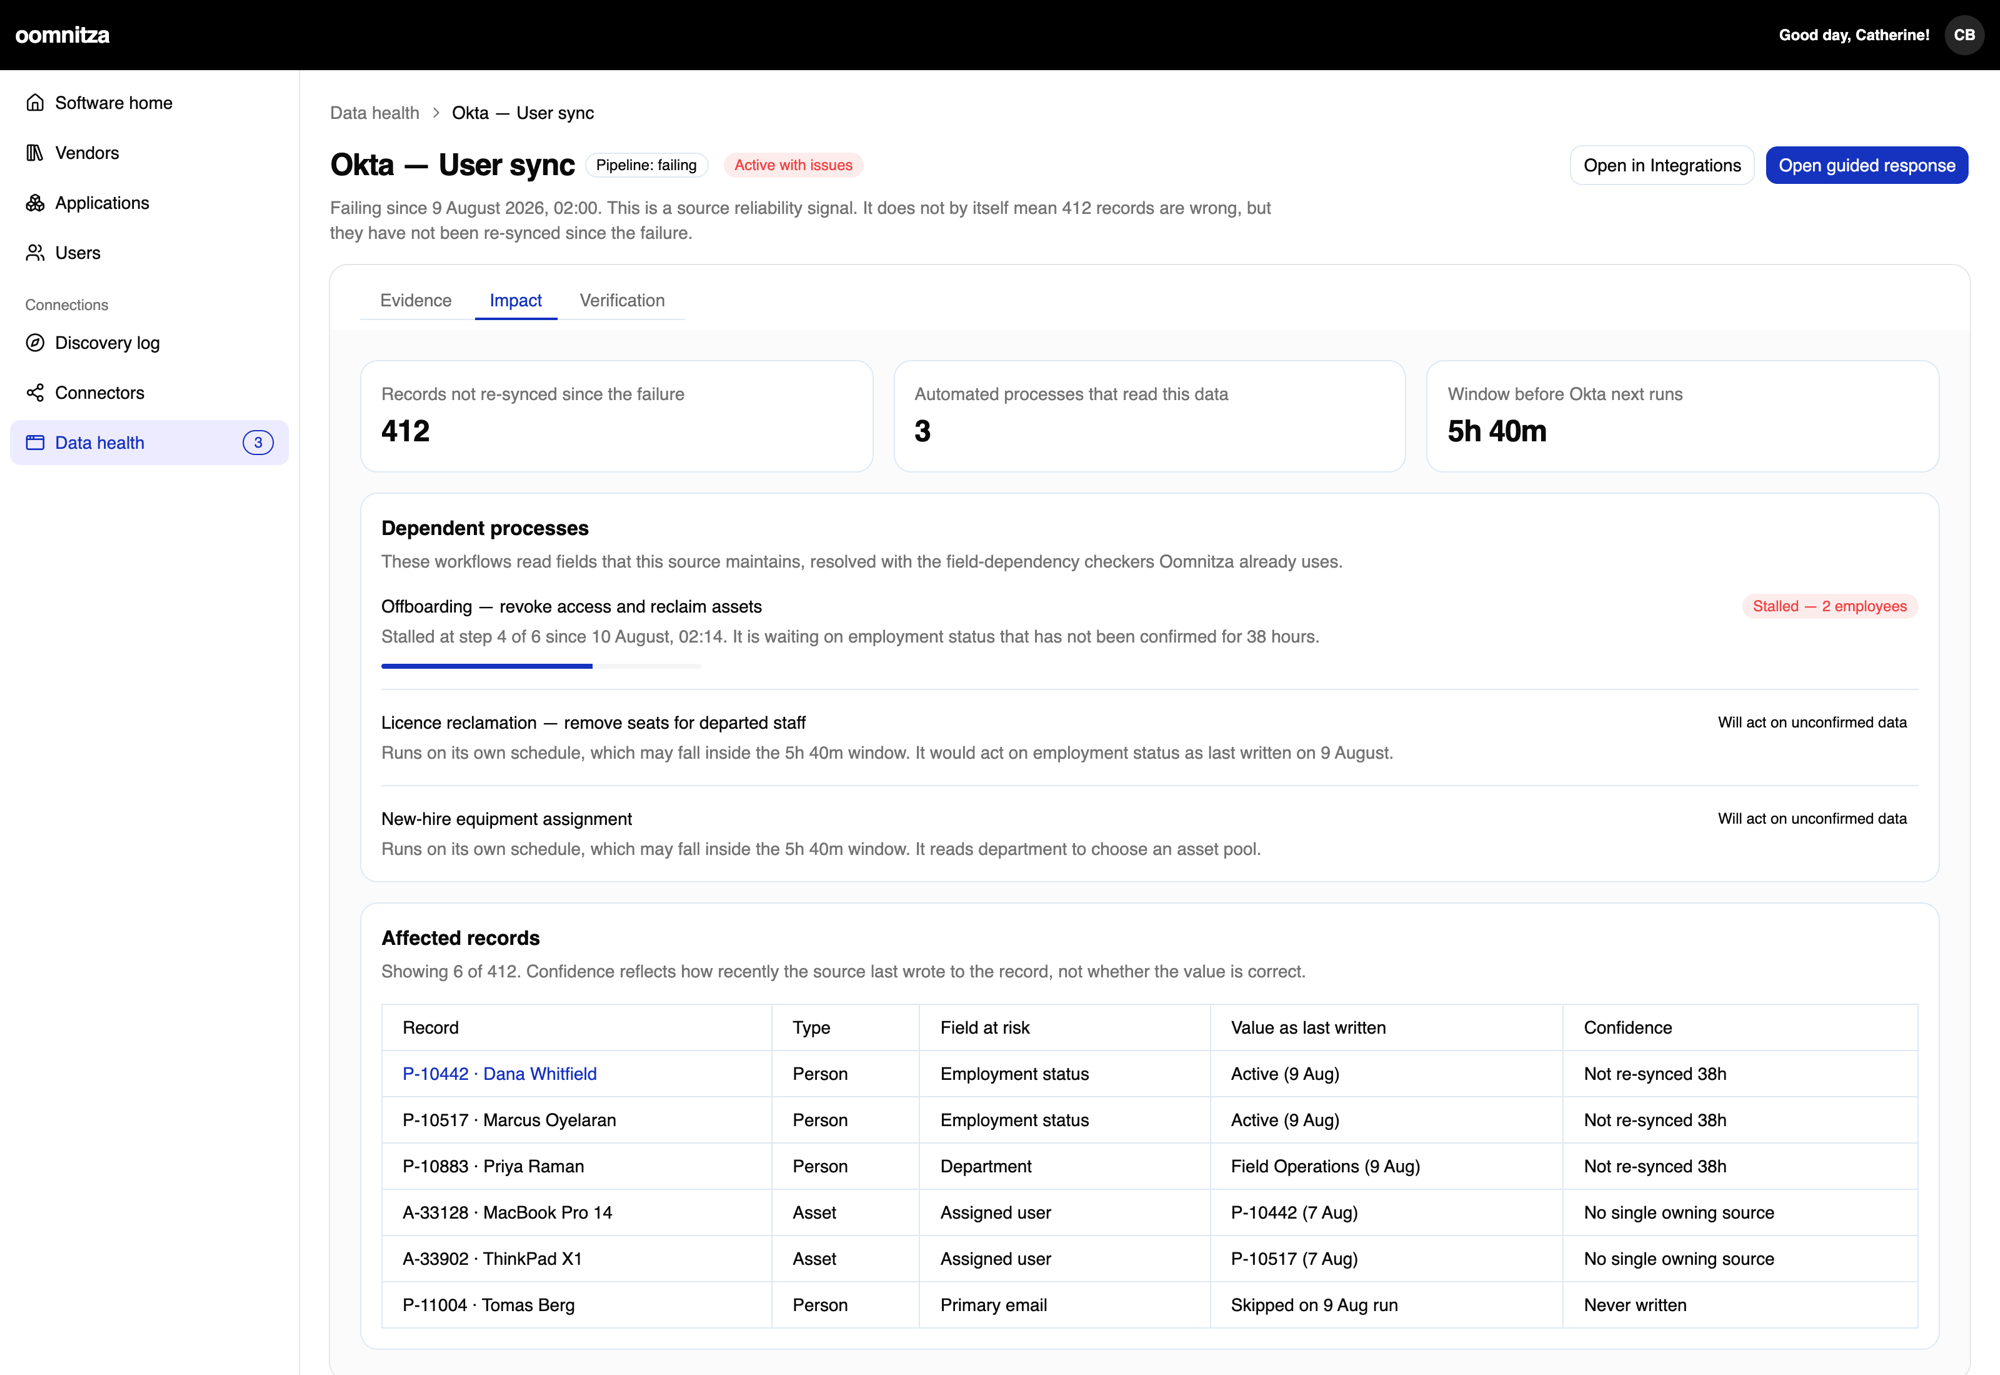
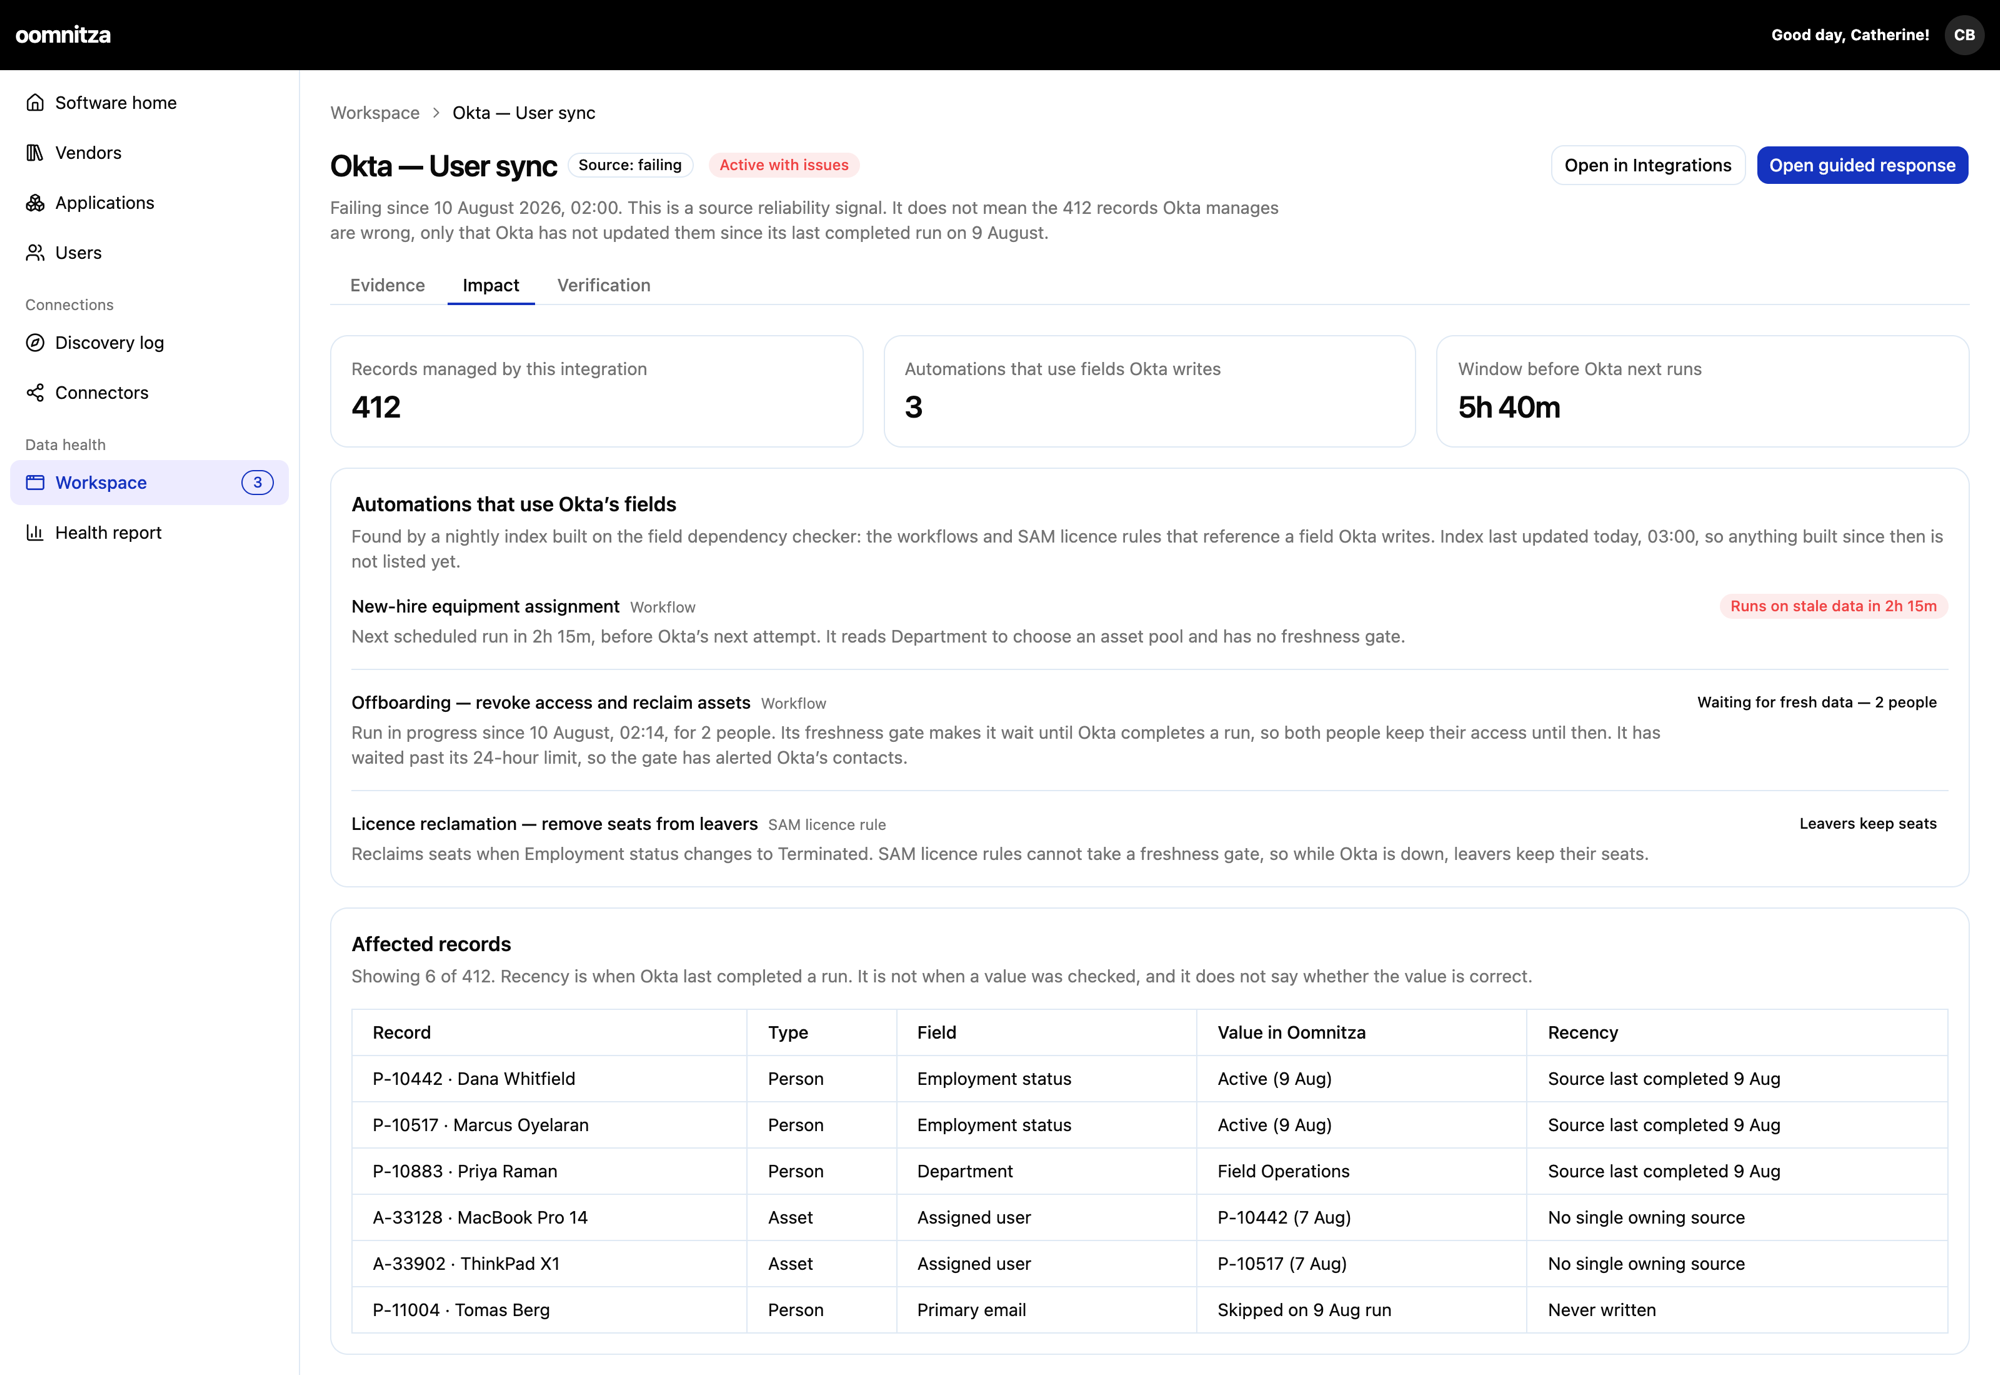
Refresh the Data Health screens to the current Workspace
The overview is now the Workspace, and the Okta impact tab reflects the
feasibility review: automations say whether they run on stale data,
wait behind a freshness gate, or leave leavers' seats in place. The
labels on both screens, the notes, the hero caption and the homepage
collage's banner crop are re-measured against the new layout.

diff --git a/portfolio/index.html b/portfolio/index.html
@@ -865,13 +865,13 @@ section[id]{scroll-margin-top:72px}
 .cl-base img{width:100%;height:auto}
 .cl-rec{right:4%;bottom:7%;width:52%;aspect-ratio:896/405;--d:14px}
 .cl-rec img{width:223.21%;height:auto;margin-left:-114.06%;margin-top:-38.5%}
-.cl-risk{left:2.5%;top:46%;width:54%;aspect-ratio:750/128;--d:20px;border-radius:6px}
-.cl-risk img{width:266.67%;height:auto;margin-left:-45.33%;margin-top:-57.07%}
+.cl-risk{left:2.5%;top:38%;width:54%;aspect-ratio:730/126;--d:20px;border-radius:6px}
+.cl-risk img{width:273.97%;height:auto;margin-left:-46.58%;margin-top:-33.97%}
 .cl-cut{
-  position:absolute; left:17.58%; top:30.27%; width:62.24%; height:7.74%; border:1.5px dashed var(--signal); border-radius:4px;
+  position:absolute; left:17.54%; top:20.27%; width:62.32%; height:7.88%; border:1.5px dashed var(--signal); border-radius:4px;
   transform:translate(calc(var(--px,0) * 6px + var(--hx,0px)),calc(var(--py,0) * 6px + var(--hy,0px))); transition:transform .8s var(--ease);
 }
-.cl-lead{position:absolute;left:20%;top:38%;height:8%;border-left:1.5px dashed var(--signal)}
+.cl-lead{position:absolute;left:20%;top:28.15%;height:9.85%;border-left:1.5px dashed var(--signal)}
 .case:hover .cl-base,.case:hover .cl-cut{--hx:-6px;--hy:-6px}
 .case:hover .cl-rec{--hx:9px;--hy:9px}
 .case:hover .cl-risk{--hx:-5px;--hy:5px;--hs:1.035}
@@ -1287,14 +1287,14 @@ section[id]{scroll-margin-top:72px}
         <div class="case-foot"><span class="read mono">Read the case study <span class="arr" aria-hidden="true">→</span></span></div>
       </div>
       <figure class="sheet">
-        <div class="stack collage" role="img" aria-label="Data Health prototype screens: the overview with its risk banner pulled out and magnified, and Dana Whitfield's record showing unconfirmed fields.">
+        <div class="stack collage" role="img" aria-label="Data Health prototype screens: the workspace with its risk banner pulled out and magnified, and Dana Whitfield's record showing unconfirmed fields.">
           <div class="cl cl-base"><img src="img/dh-overview.png" alt="" width="2000" height="1375" loading="lazy" decoding="async"></div>
           <span class="cl-cut" aria-hidden="true"></span>
           <span class="cl-lead" aria-hidden="true"></span>
           <div class="cl cl-rec"><img src="img/dh-record.jpg" alt="" width="2000" height="1250" loading="lazy" decoding="async"></div>
           <div class="cl cl-risk"><img src="img/dh-overview.png" alt="" width="2000" height="1375" loading="lazy" decoding="async"></div>
         </div>
-        <figcaption class="titleblock"><span>Fig. 04</span><span class="tb-title">Overview, risk banner and field status</span><span>Real screens</span></figcaption>
+        <figcaption class="titleblock"><span>Fig. 04</span><span class="tb-title">Workspace, risk banner and field status</span><span>Real screens</span></figcaption>
       </figure>
     </article>
 
@@ -1741,8 +1741,8 @@ section[id]{scroll-margin-top:72px}
 
   <div class="wrap">
     <figure class="sheet tilt-fig" style="margin:0">
-      <div class="tilt-stage"><div class="tilt"><img src="img/dh-overview.png" alt="Data Health overview in the prototype: four headline cards, a red banner warning that 3 automated processes will act on unconfirmed data in 5h 40m, and a table of signals." width="2000" height="1375" decoding="async"></div></div>
-      <figcaption class="titleblock"><span>Fig. A</span><span class="tb-title">Data Health overview — interactive prototype</span><span>Real screens</span></figcaption>
+      <div class="tilt-stage"><div class="tilt"><img src="img/dh-overview.png" alt="The Data Health workspace in the prototype: a red banner warning that new-hire equipment assignment runs on stale Okta data in 2h 15m, four headline cards, and signals ranked by risk to automations." width="2000" height="1375" decoding="async"></div></div>
+      <figcaption class="titleblock"><span>Fig. A</span><span class="tb-title">Data Health workspace — interactive prototype</span><span>Real screens</span></figcaption>
     </figure>
   </div>
 
@@ -1857,19 +1857,19 @@ section[id]{scroll-margin-top:72px}
         <p>I built the first screens with a Claude skill grounded in Oomnitza’s design system — real components, exact tokens and page patterns (the <a class="tlink" href="#designsystem">design system case study <span class="arr" aria-hidden="true">→</span></a> covers how). Each proposed step maps to a place in the product.</p>
         <div class="seg" role="tablist" aria-label="Prototype screen">
           <span class="seg-ind" aria-hidden="true"></span>
-          <button type="button" role="tab" id="tab-dh-ov" aria-controls="view-dh-ov" aria-selected="true" data-role="dh-ov">Overview</button>
+          <button type="button" role="tab" id="tab-dh-ov" aria-controls="view-dh-ov" aria-selected="true" data-role="dh-ov">Workspace</button>
           <button type="button" role="tab" id="tab-dh-im" aria-controls="view-dh-im" aria-selected="false" tabindex="-1" data-role="dh-im">Impact</button>
         </div>
         <figure class="sheet">
           <div class="shot crop-16x9 views" data-zoom>
-            <div class="view on" id="view-dh-ov" role="tabpanel" aria-labelledby="tab-dh-ov"><img src="img/dh-overview.png" alt="Overview: dependent actions at risk, sources with issues, records not synced, quality checks, a risk banner and the signals table." width="2000" height="1375" loading="lazy" decoding="async"><span class="hl" style="--k:0;left:16.5%;top:19.56%;width:19.8%;height:16%"><span class="lbl ">Consequence first: the smallest number leads</span></span><span class="hl" style="--k:1;left:16.56%;top:37.44%;width:81.9%;height:12.44%"><span class="lbl ">What’s about to happen, not what broke</span></span><span class="hl" style="--k:2;left:88%;top:59.1%;width:10.4%;height:27.56%"><span class="lbl end">Risk as time, or as uncertainty</span></span></div>
-            <div class="view" id="view-dh-im" role="tabpanel" aria-labelledby="tab-dh-im"><img src="img/dh-impact.png" alt="Okta — User sync impact tab: 412 records not re-synced, 3 automated processes, 5h 40m window, dependent processes and affected records." width="2000" height="1375" loading="lazy" decoding="async"><span class="hl" style="--k:0;left:18%;top:25.33%;width:16.25%;height:3.11%"><span class="lbl ">Evidence · Impact · Verification</span></span><span class="hl" style="--k:1;left:88.3%;top:13.06%;width:10.1%;height:3.22%"><span class="lbl end">Choose a response</span></span><span class="hl" style="--k:2;left:71.35%;top:32%;width:25.6%;height:9.89%"><span class="lbl end">The window before the next run</span></span><span class="hl" style="--k:3;left:19.06%;top:52.89%;width:76.9%;height:6.67%"><span class="lbl ">Stalled at step 4 of 6, waiting on unconfirmed data</span></span></div>
+            <div class="view on" id="view-dh-ov" role="tabpanel" aria-labelledby="tab-dh-ov"><img src="img/dh-overview.png" alt="Workspace: a red banner warning that new-hire equipment assignment runs on stale Okta data in 2h 15m, four headline cards and a table of signals ranked by risk to automations." width="2000" height="1375" loading="lazy" decoding="async"><span class="hl" style="--k:0;left:16.5%;top:21.33%;width:82.0%;height:12.67%"><span class="lbl end">What’s about to happen, not what broke</span></span><span class="hl" style="--k:1;left:16.44%;top:35.67%;width:19.88%;height:16.22%"><span class="lbl below">Consequence first: the smallest number leads</span></span><span class="hl" style="--k:2;left:86.88%;top:59.89%;width:11.56%;height:24.11%"><span class="lbl end">Risk as time, or as uncertainty</span></span></div>
+            <div class="view" id="view-dh-im" role="tabpanel" aria-labelledby="tab-dh-im"><img src="img/dh-impact.png" alt="Okta — User sync impact tab: 412 records, 3 automations, a 5h 40m window, and each automation that uses Okta’s fields with what will happen to it." width="2000" height="1375" loading="lazy" decoding="async"><span class="hl" style="--k:0;left:16.5%;top:23.78%;width:16.75%;height:3.33%"><span class="lbl ">Evidence · Impact · Verification</span></span><span class="hl" style="--k:1;left:87.81%;top:12.89%;width:10.69%;height:3.56%"><span class="lbl end">Choose a response</span></span><span class="hl" style="--k:2;left:71.81%;top:29.78%;width:26.69%;height:10.0%"><span class="lbl end">The window before the next run</span></span><span class="hl" style="--k:3;left:17.56%;top:52.78%;width:79.88%;height:6.78%"><span class="lbl ">Runs on stale data: no freshness gate</span></span></div>
           </div>
           <figcaption class="titleblock"><span>Fig. E</span><span class="tb-title">Data Health prototype<span class="zoom-hint"> · hover to magnify</span></span><span>Real screens</span></figcaption>
         </figure>
         <div class="notes">
-          <div class="note" data-note="dh-ov"><ul class="ticks dots"><li>The smallest number leads: 3 dependent actions at risk, with the time left before Okta next runs.</li><li>The headline banner says what is about to happen to the business, not that a connector failed.</li><li>Risk is shown as time where a deadline is known, and as uncertainty where it isn’t.</li></ul></div>
-          <div class="note" data-note="dh-im" hidden><ul class="ticks dots"><li>Evidence, Impact and Verification follow the proposed steps in order.</li><li>Offboarding is stalled at step 4 of 6, waiting on employment status that hasn’t been confirmed for 38 hours.</li><li>Confidence reflects how recently the source wrote to the record — not whether the value is correct.</li></ul></div>
+          <div class="note" data-note="dh-ov"><ul class="ticks dots"><li>The headline is what is about to happen to the business — “New-hire equipment assignment runs on stale Okta data in 2h 15m” — not that a connector failed.</li><li>The smallest number leads: 3 automations using stale data, and when the next one runs.</li><li>Risk to automations is shown as time where a deadline is known, and as “Unknown” where it isn’t.</li></ul></div>
+          <div class="note" data-note="dh-im" hidden><ul class="ticks dots"><li>Evidence, Impact and Verification follow the proposed steps in order.</li><li>Each automation says what will happen to it: one runs on stale data in 2h 15m, offboarding waits behind its freshness gate, and a licence rule that can’t take a gate means leavers keep their seats.</li><li>The dependency list says when its index was last updated, and “recency” means when Okta last completed a run — not whether a value is correct.</li></ul></div>
         </div>
         <p style="margin-top:22px"><a class="btn" href="https://catherinebutlerdesign.github.io/datahealth/" target="_blank" rel="noopener">Try the live prototype <span class="arr" aria-hidden="true">↗</span></a></p>
       </section>
